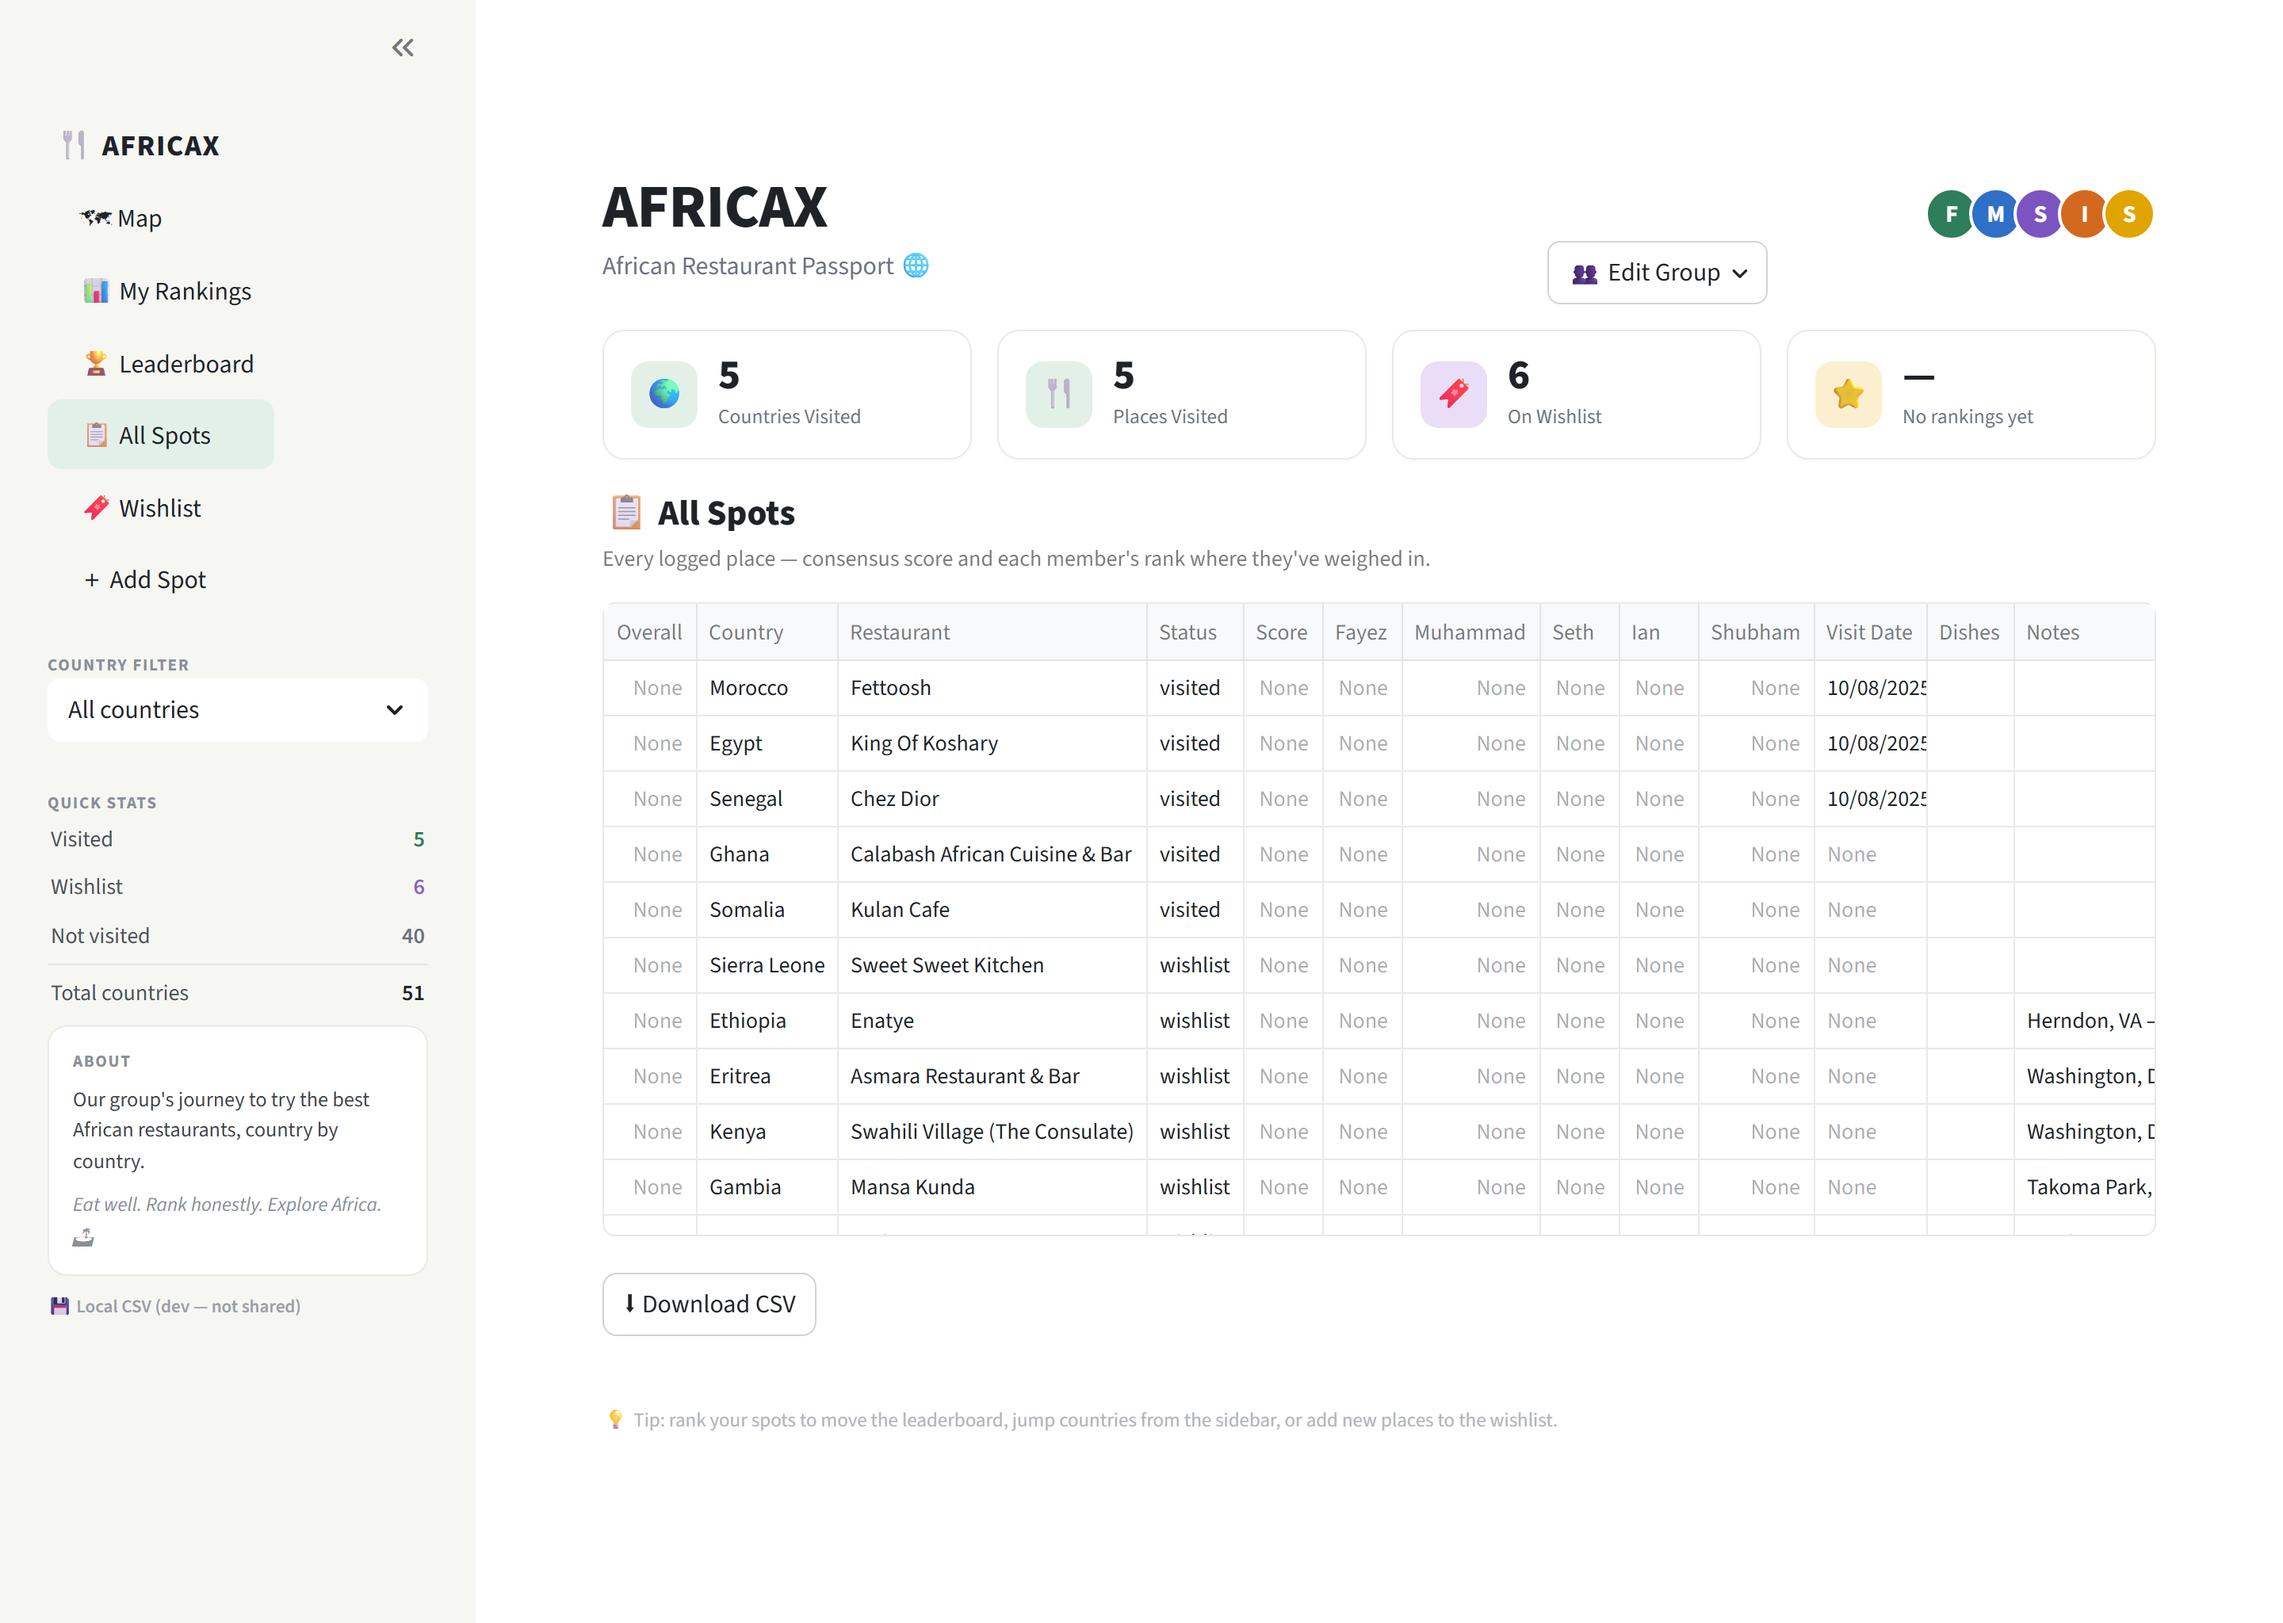
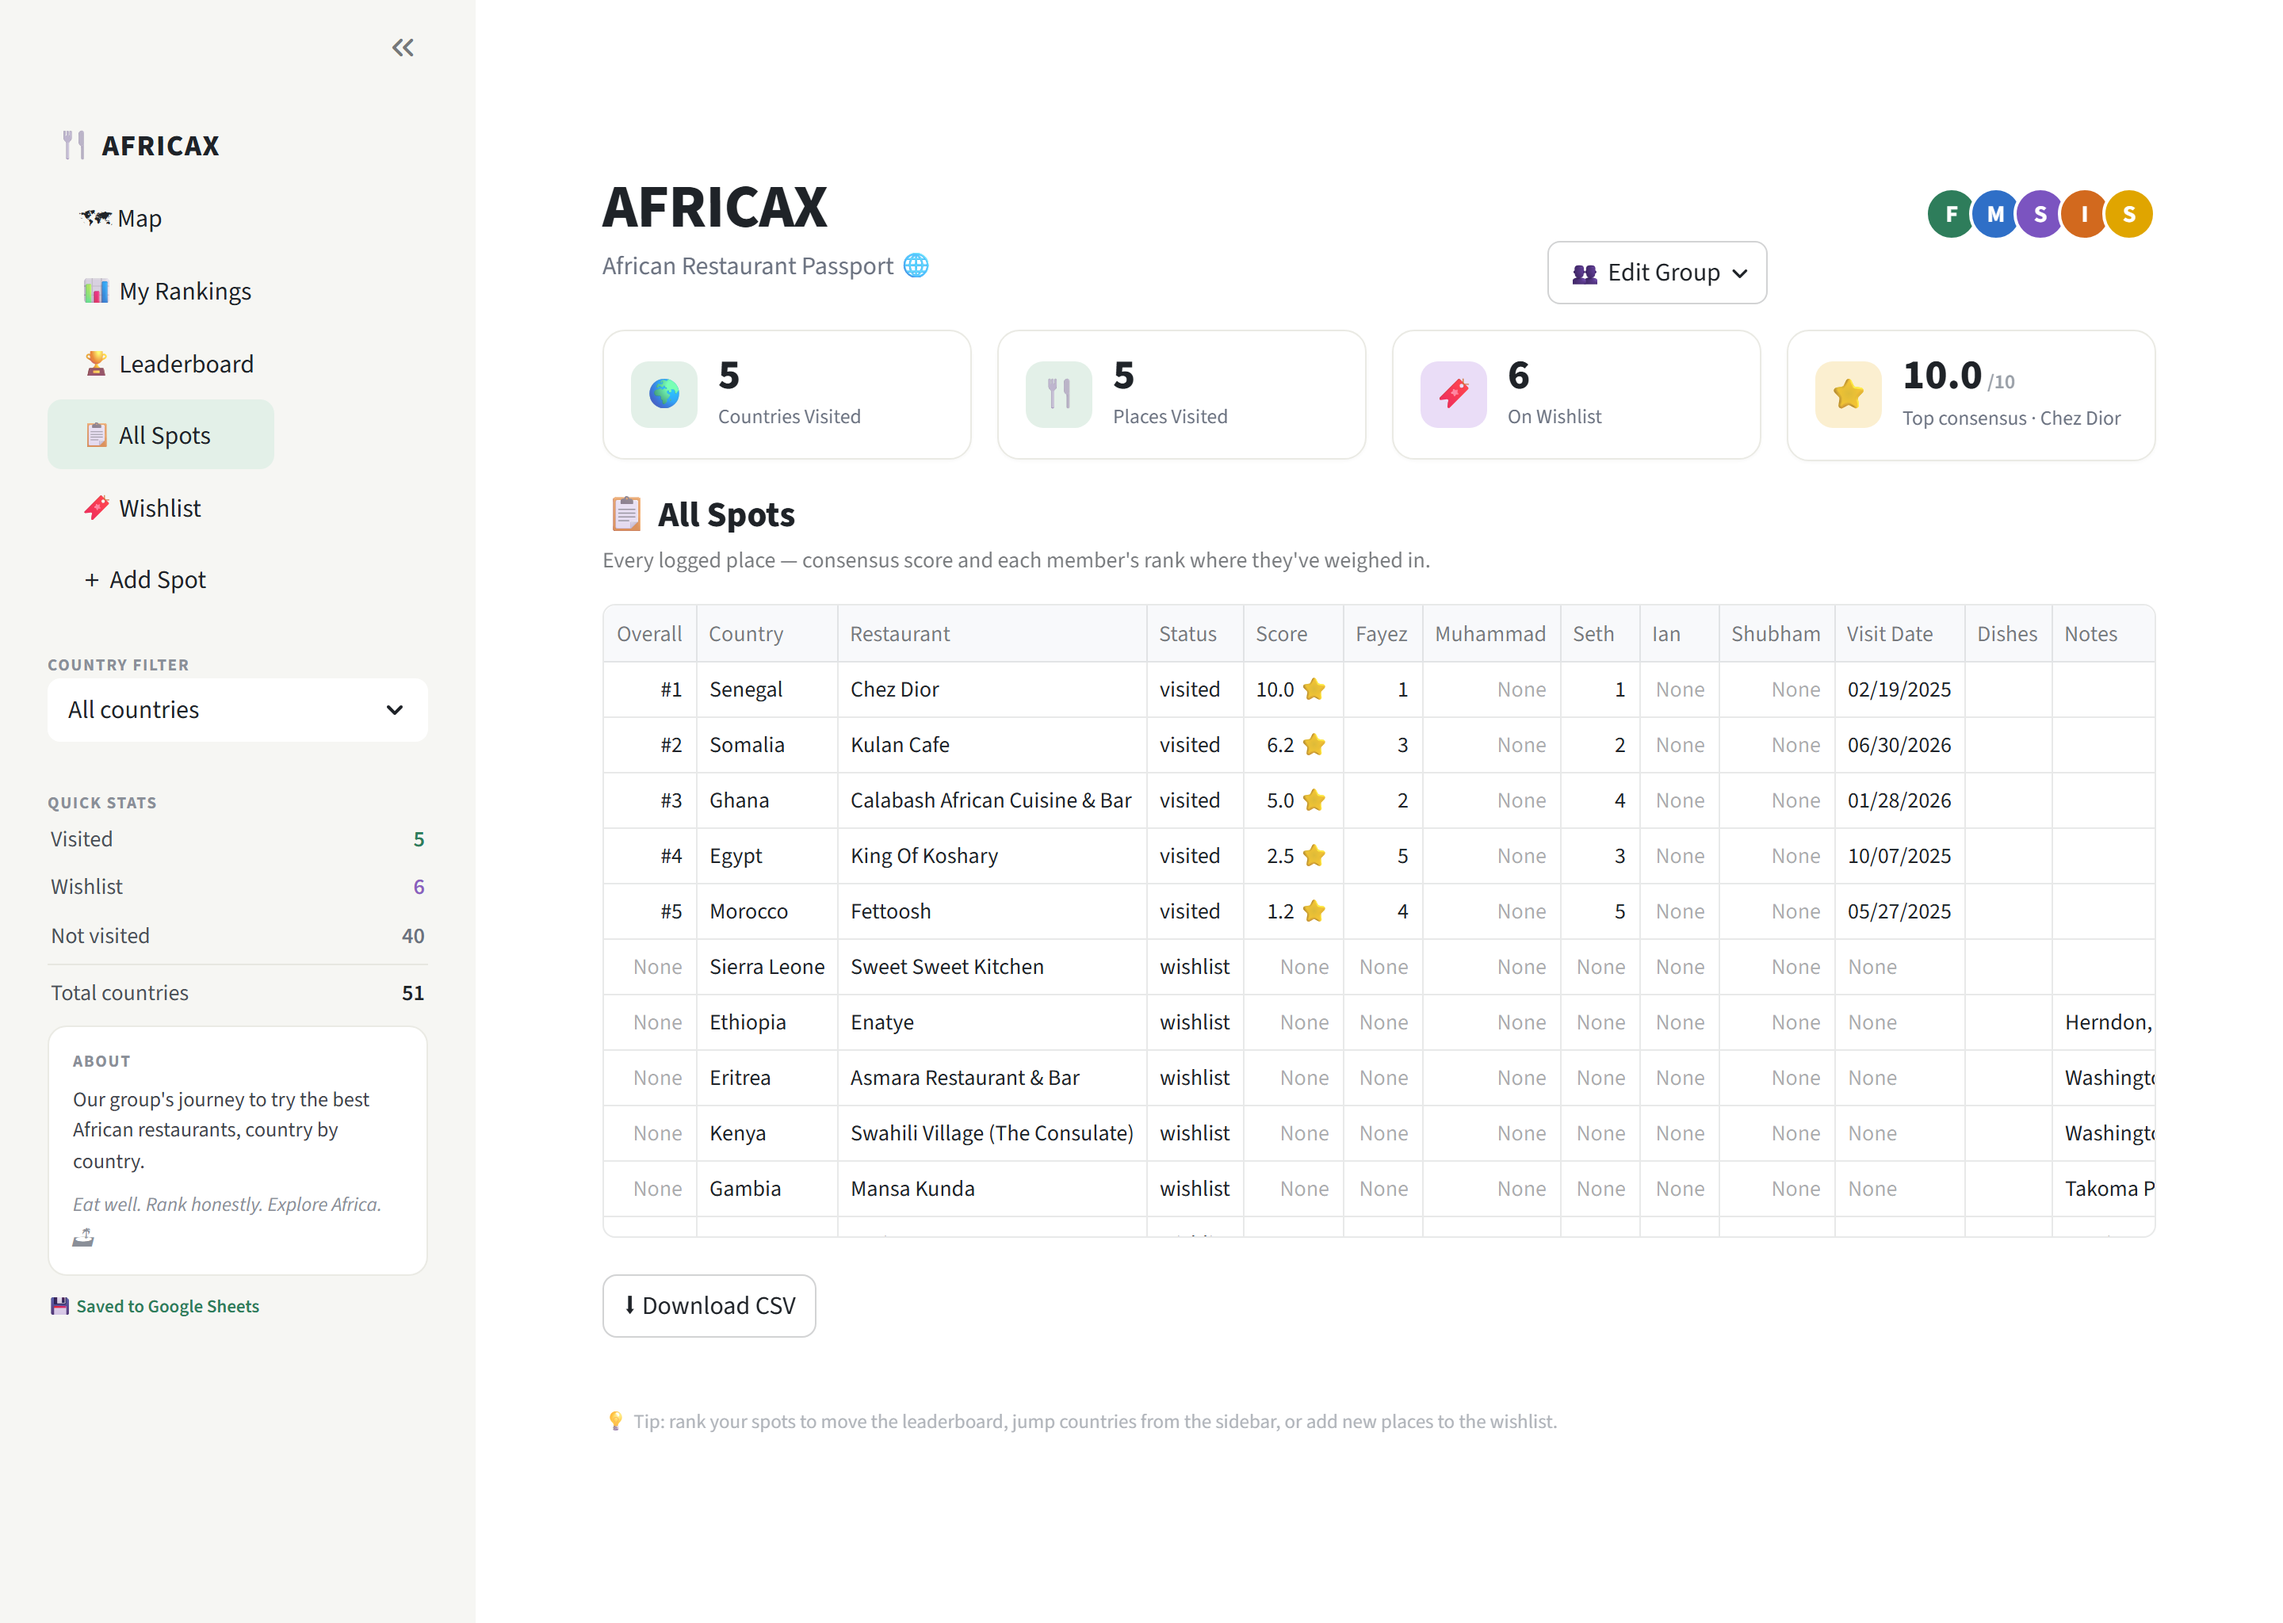
My Rankings + Leaderboard: Movie-Ranks-style editorial consensus
Add editorial_consensus() — a magazine-style ranked list mimicking the Movie
Ranks "best" poster: numbered ranks, country flag/code + restaurant + country,
the 0-100 MEDIAN with a score bar, and RANKED-BY member avatars on a cream panel.
Used on My Rankings (full-width below the ballot) and the Leaderboard.
My Rankings: member picker moved above the ballot, "how it works" note, consensus
below. Screenshots refreshed (captured against the live Sheet).

diff --git a/ui.py b/ui.py
@@ -51,6 +51,11 @@ def code(iso3: str) -> str:
     return _A3_A2.get(str(iso3).upper(), str(iso3)[:2].upper())
 
 
+def flag(iso3: str) -> str:
+    a2 = _A3_A2.get(str(iso3).upper())
+    return "".join(chr(0x1F1E6 + ord(c) - ord("A")) for c in a2) if a2 else "🌍"
+
+
 def goto(page: str) -> None:
     """Callback for CTA buttons — switch the active page (nav radio key='page')."""
     st.session_state["page"] = page
@@ -501,25 +506,25 @@ def my_rankings_page(df: pd.DataFrame) -> None:
         st.info("No visited spots to rank yet. Add some on **Add Spot** first.")
         return
 
-    left, right = st.columns([0.58, 0.42], gap="large")
+    member = st.selectbox("Who are you?", ds.RATERS, key="rank_member")
+    st.markdown(f"{avatar(member)} &nbsp; Ranking as **{member}**", unsafe_allow_html=True)
+
+    key = f"order_{member}"
+    if key not in st.session_state:
+        saved = df[pd.to_numeric(df[member], errors="coerce").notna()].sort_values(member)["Restaurant"].tolist()
+        st.session_state[key] = saved + [n for n in names if n not in saved]
+    order = [n for n in st.session_state[key] if n in names]
+    order += [n for n in names if n not in order]
+    st.session_state[key] = order
+
+    if not _country_ranked(df, member):
+        st.markdown(f"<div class='ax-card' style='background:#FEF7EC;border-color:#F3E2C2;margin:10px 0'>"
+                    f"✨ <b>{member} hasn't ranked yet.</b> Order the spots below and hit Save to join the board.</div>",
+                    unsafe_allow_html=True)
+
+    cty = dict(zip(vis["Restaurant"], vis["Country"]))
+    left, right = st.columns([0.62, 0.38], gap="large")
     with left:
-        member = st.selectbox("Who are you?", ds.RATERS, key="rank_member")
-        st.markdown(f"{avatar(member)} &nbsp; Ranking as **{member}**", unsafe_allow_html=True)
-
-        key = f"order_{member}"
-        if key not in st.session_state:
-            saved = df[pd.to_numeric(df[member], errors="coerce").notna()].sort_values(member)["Restaurant"].tolist()
-            st.session_state[key] = saved + [n for n in names if n not in saved]
-        order = [n for n in st.session_state[key] if n in names]
-        order += [n for n in names if n not in order]
-        st.session_state[key] = order
-
-        if not _country_ranked(df, member):
-            st.markdown(f"<div class='ax-card' style='background:#FEF7EC;border-color:#F3E2C2;margin:10px 0'>"
-                        f"✨ <b>{member} hasn't ranked yet.</b> Order the spots below and hit Save to join the board.</div>",
-                        unsafe_allow_html=True)
-
-        cty = dict(zip(vis["Restaurant"], vis["Country"]))
         for i, nm in enumerate(order):
             with st.container(border=True):
                 cc = st.columns([0.5, 5, 0.7, 0.7])
@@ -547,32 +552,55 @@ def my_rankings_page(df: pd.DataFrame) -> None:
         if st.session_state.get("_just_saved") == member:
             st.success(f"✓ Saved {member}'s ranking.")
             st.session_state.pop("_just_saved", None)
-
     with right:
-        st.markdown("<div class='ax-card'><div style='font-weight:800'>🔮 Live consensus</div>"
-                    "<div style='font-size:.8rem;color:#8A8F98;margin-top:2px'>Median of everyone's percentiles. "
-                    "Updates the moment you save.</div></div>", unsafe_allow_html=True)
-        _consensus_list(df)
+        st.markdown("<div class='ax-card' style='background:#F6F6F3'><div style='font-weight:800'>How it works</div>"
+                    "<div style='font-size:.82rem;color:#6B7280;margin-top:5px'>Your order becomes a 0–100 percentile "
+                    "(your #1 = 100). Everyone's are combined by <b>median</b>, so one outlier can't sink a group "
+                    "favourite. Save to update the board below.</div></div>", unsafe_allow_html=True)
+
+    st.write("")
+    editorial_consensus(df)
 
 
 def _country_ranked(df: pd.DataFrame, member: str) -> bool:
     return pd.to_numeric(df[member], errors="coerce").notna().any()
 
 
-def _consensus_list(df: pd.DataFrame) -> None:
+def editorial_consensus(df: pd.DataFrame, title: str = "Group Consensus") -> None:
+    """Movie-Ranks-poster-style editorial ranked list of the group consensus:
+    numbered ranks, flag + restaurant + country, the 0-100 MEDIAN with a score bar,
+    and 'RANKED BY' member avatars, on a warm cream panel."""
     tbl = rk.consensus_table(df, min_coverage=1)
+    head = ("<div style='background:#F7F3EC;border:1px solid #E9E1D2;border-radius:16px;padding:20px 24px'>"
+            "<div style='display:flex;align-items:baseline;gap:12px;border-bottom:2px solid #1F2328;padding-bottom:8px'>"
+            "<span style='font-size:.72rem;font-weight:800;color:#B4A88E'>01</span>"
+            f"<span style='font-size:1.25rem;font-weight:800;letter-spacing:.01em'>{title}</span></div>"
+            "<div style='font-size:.78rem;color:#9a917f;margin-top:6px;font-style:italic'>"
+            "Median of everyone's normalised rankings · higher = the group's favourite</div>")
     if tbl.empty:
-        st.caption("No rankings yet — yours will start the board.")
+        st.markdown(head + "<div style='padding:18px 0;color:#9a917f'>No rankings yet — be the first "
+                    "to rank and start the board.</div></div>", unsafe_allow_html=True)
         return
-    medals = {1: "🥇", 2: "🥈", 3: "🥉"}
+    idx = consensus_index(df)
+    iso_by_country = dict(zip(df["Country"], df["ISO_A3"]))
+    grid = "display:grid;grid-template-columns:46px 1fr 92px 116px;gap:12px;align-items:center"
+    rows = (f"<div style='{grid};margin-top:14px;font-size:.6rem;font-weight:800;letter-spacing:.09em;"
+            "text-transform:uppercase;color:#B4A88E'><div>#</div><div>Restaurant</div>"
+            "<div>Median</div><div>Ranked by</div></div>")
     for _, r in tbl.iterrows():
-        m = medals.get(int(r["overall_rank"]), f"#{int(r['overall_rank'])}")
-        st.markdown(f"<div style='display:flex;align-items:center;gap:11px;padding:9px 4px;border-bottom:1px solid #F1F1EC'>"
-                    f"<div style='width:26px;font-weight:800'>{m}</div>"
-                    f"<div style='flex:1'><div style='font-weight:700;font-size:.9rem'>{r['restaurant']}</div>"
-                    f"<div style='font-size:.75rem;color:#8A8F98'>{r['country']}</div></div>"
-                    f"<div style='font-weight:800;color:#2E7D5B'>{score10(r['median'])}</div></div>",
-                    unsafe_allow_html=True)
+        med = float(r["median"])
+        barw = max(3, min(100, round(med)))
+        who = idx.get(r["restaurant"], {}).get("ranked_by", [])
+        fl = flag(iso_by_country.get(r["country"], ""))
+        rows += (f"<div style='{grid};padding:13px 0;border-bottom:1px solid #E9E1D2'>"
+                 f"<div style='font-size:1.5rem;font-weight:800'>{int(r['overall_rank'])}</div>"
+                 f"<div><div style='font-weight:700;font-size:1rem'>{fl} {r['restaurant']}</div>"
+                 f"<div style='font-size:.78rem;color:#9a917f'>{r['country']}</div></div>"
+                 f"<div><div style='font-size:1.2rem;font-weight:800'>{med:.1f}</div>"
+                 f"<div style='height:4px;background:#E4DAC6;border-radius:2px;margin-top:4px'>"
+                 f"<div style='height:4px;width:{barw}%;background:#2E7D5B;border-radius:2px'></div></div></div>"
+                 f"<div>{avatars(who, 26)}</div></div>")
+    st.markdown(head + rows + "</div>", unsafe_allow_html=True)
 
 
 # ---------- Leaderboard ----------
@@ -592,21 +620,9 @@ def leaderboard_page(df: pd.DataFrame) -> None:
         st.button("Add your ranking →", type="primary", on_click=goto, args=("My Rankings",), key="lb_cta")
         return
 
-    medals = {1: "🥇", 2: "🥈", 3: "🥉"}
-    for _, r in tbl.iterrows():
-        rank = int(r["overall_rank"])
-        cons = idx.get(r["restaurant"], {})
-        who = cons.get("ranked_by", [])
-        st.markdown(
-            f"<div class='ax-card' style='margin-bottom:10px;display:flex;align-items:center;gap:16px'>"
-            f"<div style='font-size:1.4rem;font-weight:800;width:38px'>{medals.get(rank, '#'+str(rank))}</div>"
-            f"<div style='flex:1'><div style='font-weight:700;font-size:1.05rem'>{r['restaurant']}</div>"
-            f"<div style='font-size:.82rem;color:#6B7280'>{r['country']}</div></div>"
-            f"<div style='text-align:right'><span style='font-size:1.3rem;font-weight:800;color:#2E7D5B'>{score10(r['median'])}</span>"
-            f"<span style='font-size:.8rem;color:#9AA0A8'>/10</span></div>"
-            f"<div style='min-width:96px;text-align:right'>{avatars(who, 26)}</div></div>", unsafe_allow_html=True)
+    editorial_consensus(df, title="Official Ranking")
 
-    st.markdown("<div class='ax-label' style='margin-top:16px'>Each person's #1</div>", unsafe_allow_html=True)
+    st.markdown("<div class='ax-label' style='margin-top:18px'>Each person's #1</div>", unsafe_allow_html=True)
     cards = []
     for m in ds.RATERS:
         sub = df[pd.to_numeric(df[m], errors="coerce") == 1]
